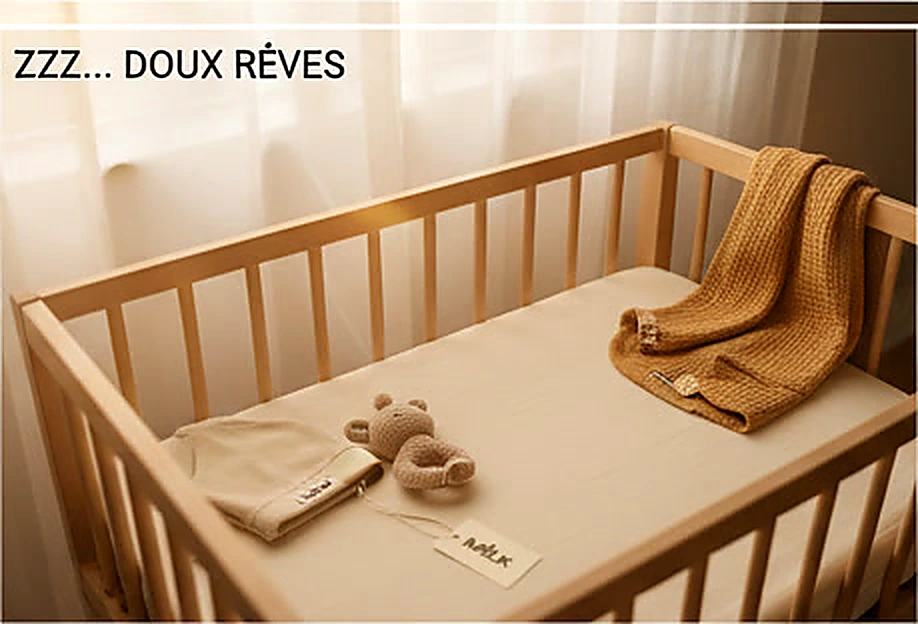
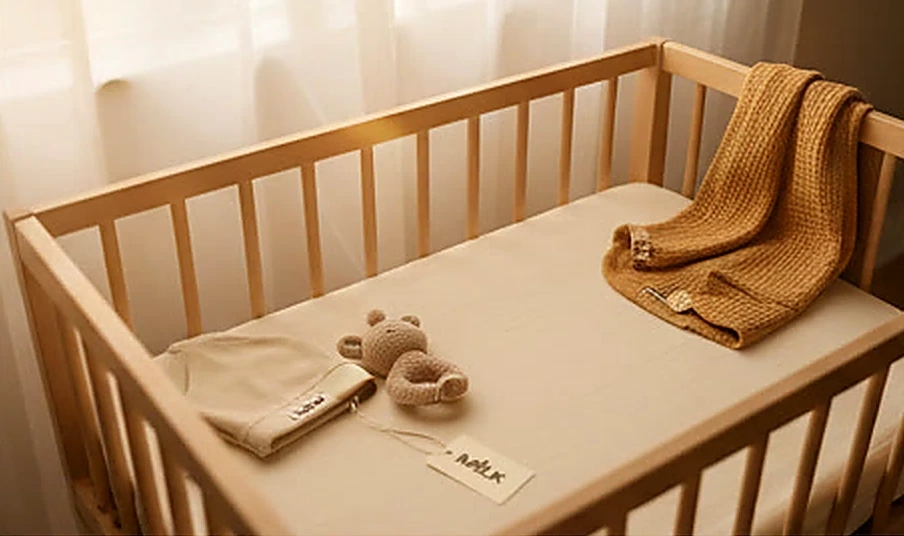
fix: suppression textes incrustés sur photos pourquoi-bambou

diff --git a/app/pourquoi-bambou/page.tsx b/app/pourquoi-bambou/page.tsx
@@ -7,8 +7,8 @@ import { C, Divider, Reveal, BigTextScroll, Ticker, MILK_STYLES } from "@/compon
 const PROPRIETES = [
   { titre: "Thermorégulation naturelle", texte: "La fibre de bambou absorbe et évacue l'humidité 3× plus vite que le coton. Votre nourrisson reste à la bonne température, été comme hiver. Moins de surchauffe, moins de sueurs, moins de réveils nocturnes.", stat: "3×", statLabel: "plus respirant que le coton", image: "/images/pourquoi-bambou/milk_pkoi_bambou_thermoregulation_tissu_macro.webp", imageAlt: "Macro tissu bambou M!LK — thermorégulation naturelle certifiée OEKO-TEX" },
   { titre: "Douceur extrême", texte: "Les microfibres de bambou sont naturellement rondes, sans aspérités. La sensation est comparable à la soie. Pour la peau d'un nourrisson — 5× plus fine que celle d'un adulte — chaque frottement compte.", stat: "5×", statLabel: "plus doux que le coton classique", image: "/images/pourquoi-bambou/milk_pkoi_bambou_douceur_main_bebe.webp", imageAlt: "Main bébé sur tissu waffle bambou M!LK — douceur extrême" },
-  { titre: "Antibactérien naturel", texte: "Le bambou contient une substance naturelle qui inhibe la croissance des bactéries. Moins de bactéries : moins d'odeurs, moins d'irritations cutanées, moins de risques pour la peau ultra-sensible de votre nourrisson.", stat: "70%", statLabel: "de bactéries en moins vs coton", image: "/images/pourquoi-bambou/milk_pkoi_bambou_naturel_hypoallergenique_stack.webp", imageAlt: "Stack vêtements bambou M!LK pliés — naturel hypoallergénique" },
-  { titre: "Certifié OEKO-TEX Standard 100", texte: "Chaque produit M!LK est certifié OEKO-TEX Standard 100. Plus de 100 substances nocives testées. Résultat : zéro compromis sur la sécurité de votre nourrisson.", stat: "0", statLabel: "substance nocive détectée", image: "/images/pourquoi-bambou/milk_pkoi_bambou_doux_reves_lit_bebe.webp", imageAlt: "Lit bébé avec vêtements M!LK bambou certifié OEKO-TEX" },
+  { titre: "Antibactérien naturel", texte: "Le bambou contient une substance naturelle qui inhibe la croissance des bactéries. Moins de bactéries : moins d'odeurs, moins d'irritations cutanées, moins de risques pour la peau ultra-sensible de votre nourrisson.", stat: "70%", statLabel: "de bactéries en moins vs coton", image: "/images/pourquoi-bambou/milk_pkoi_bambou_naturel_hypoallergenique_stack.webp", imageAlt: "Stack vêtements bambou M!LK pliés tons naturels — antibactérien hypoallergénique" },
+  { titre: "Certifié OEKO-TEX Standard 100", texte: "Chaque produit M!LK est certifié OEKO-TEX Standard 100. Plus de 100 substances nocives testées. Résultat : zéro compromis sur la sécurité de votre nourrisson.", stat: "0", statLabel: "substance nocive détectée", image: "/images/pourquoi-bambou/milk_pkoi_bambou_doux_reves_lit_bebe.webp", imageAlt: "Lit bébé bois lumineux avec vêtements M!LK bambou — certifié OEKO-TEX, zéro substance nocive" },
 ];
 
 const COMPARATIF = [
